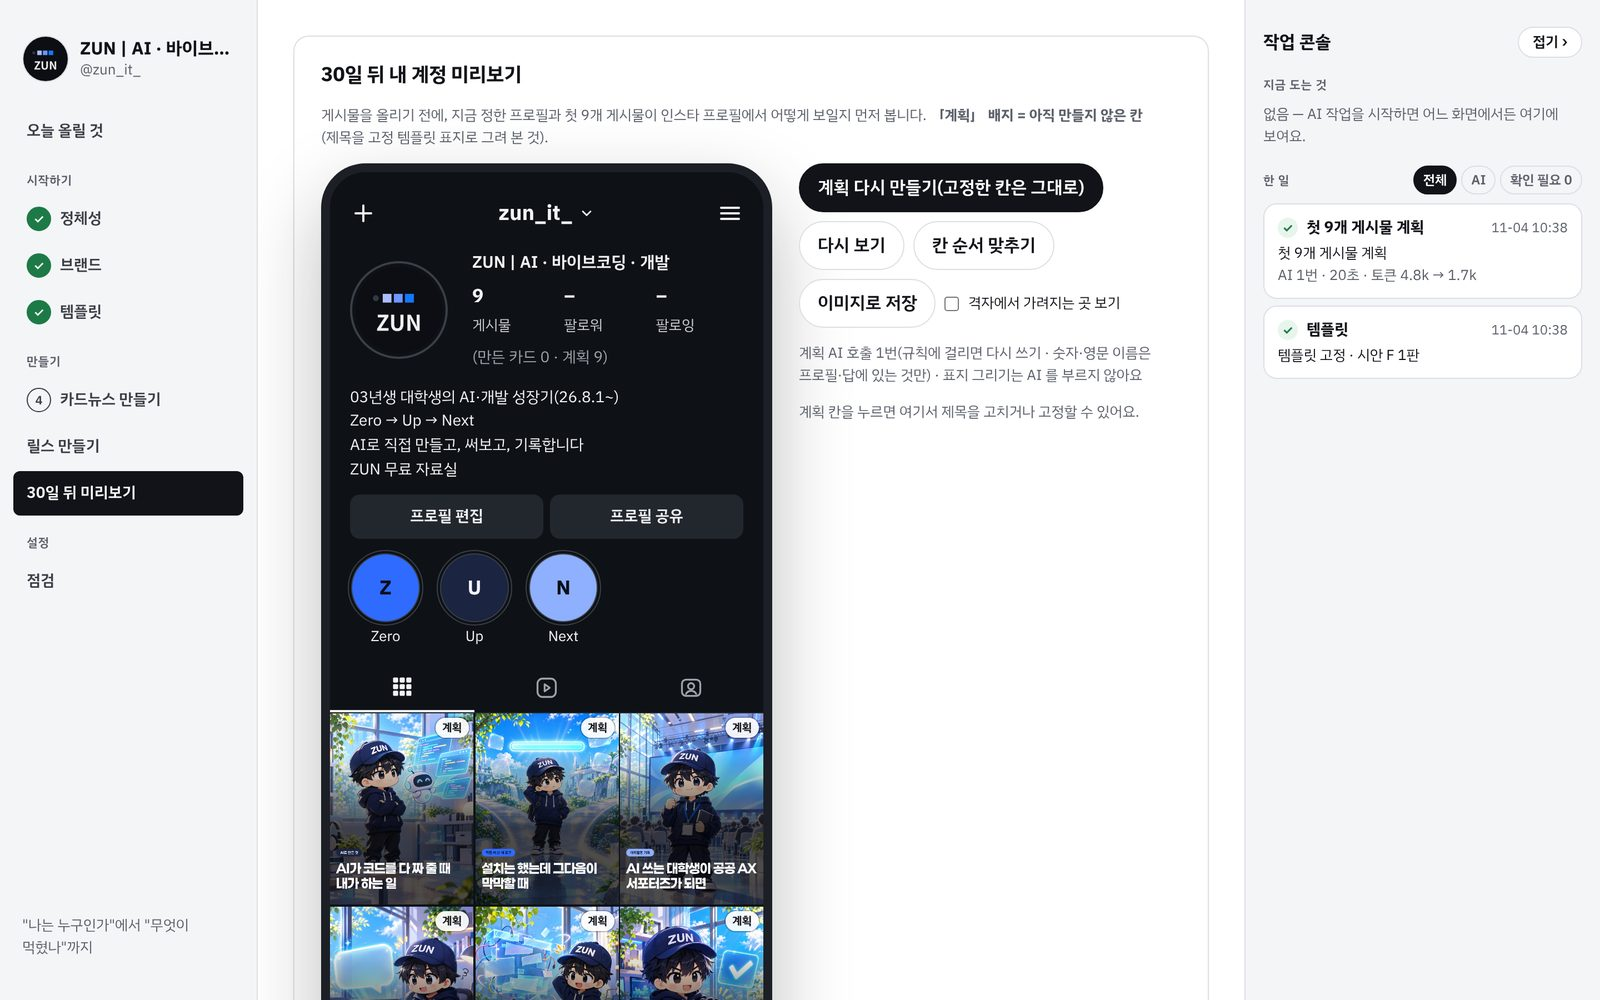
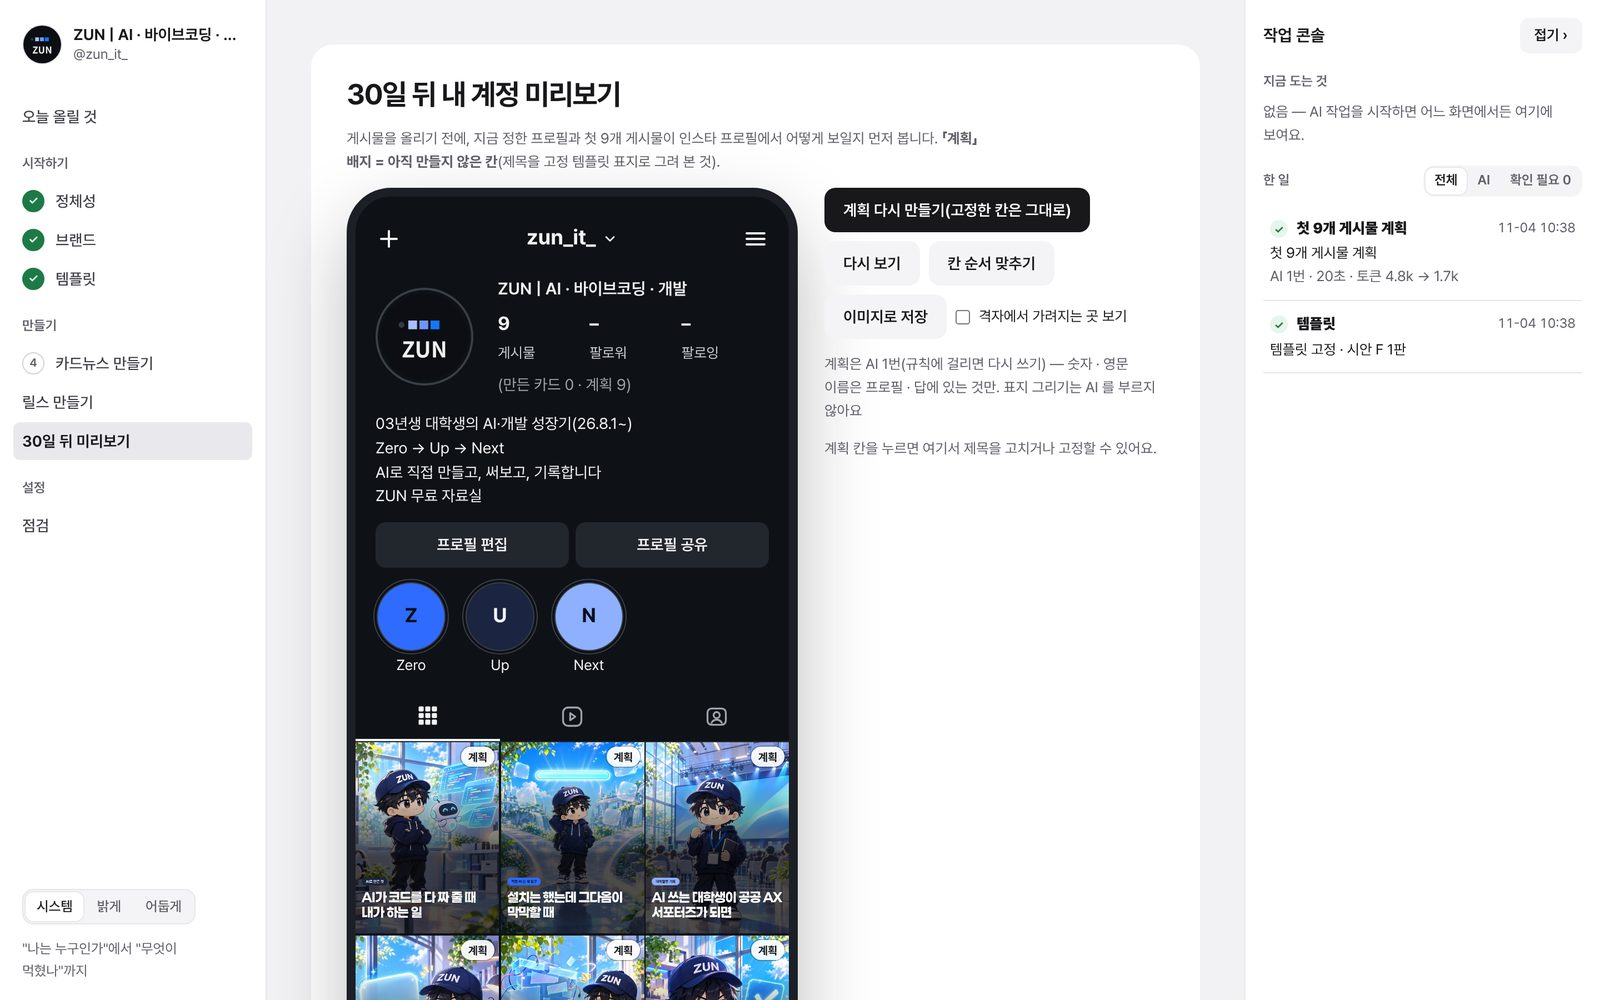
랜딩페이지 실제 앱 화면 5장을 새 디자인으로 다시 찍음
앱 디자인 v2 와 토스 비교 반영 뒤라 랜딩의 화면이 옛 모습이었다. 같은 운영자 데이터 사본으로 다시 찍었다.

Claude-Session: https://claude.ai/code/session_01Uqv9AyJRqyY2gMhXEUkCkD

diff --git a/docs/devlog/2026-11-15-01-랜딩페이지.md b/docs/devlog/2026-11-15-01-랜딩페이지.md
@@ -52,3 +52,6 @@
 - 공유 미리보기 이미지(`img/og.jpg`, 1200×630 — 제목 + 폰 격자) · `twitter:card` · SVG 파비콘
 - 고친 것: 작은 라벨을 모노체 → 본문 글꼴(한글이 고정폭 대체 글꼴로 벌어졌다) · 둘러보기 창이 첫 화면용 숨김 규칙(`.window{display:none}`)에 같이 걸려 모바일에서 사라짐 → 첫 화면 창으로 범위를 좁힘
 - 확인: 1440 · 900 · 390px 실제 Chromium, 콘솔 오류 0 · 실패한 요청 0 · 가로 넘침 0, 탭 눌러 바뀌는 것 확인
+
+## 네 번째 — 앱 화면을 새 디자인으로 다시 찍음 (2026-11-17)
+- 앱 디자인 v2 + 토스 비교 반영(devlog 2026-11-17-01) 뒤라 `site/img/app-*.jpg` 5장이 옛 화면이었다 → 같은 운영자 데이터 사본으로 밝은 판 1440×900 @2x 를 다시 찍어 1600×1000 JPEG 로 교체(장당 100~133KB). 콘솔 오류 0, 5장 모두 직접 열어 봄(인터뷰 답은 공개 fixture)
